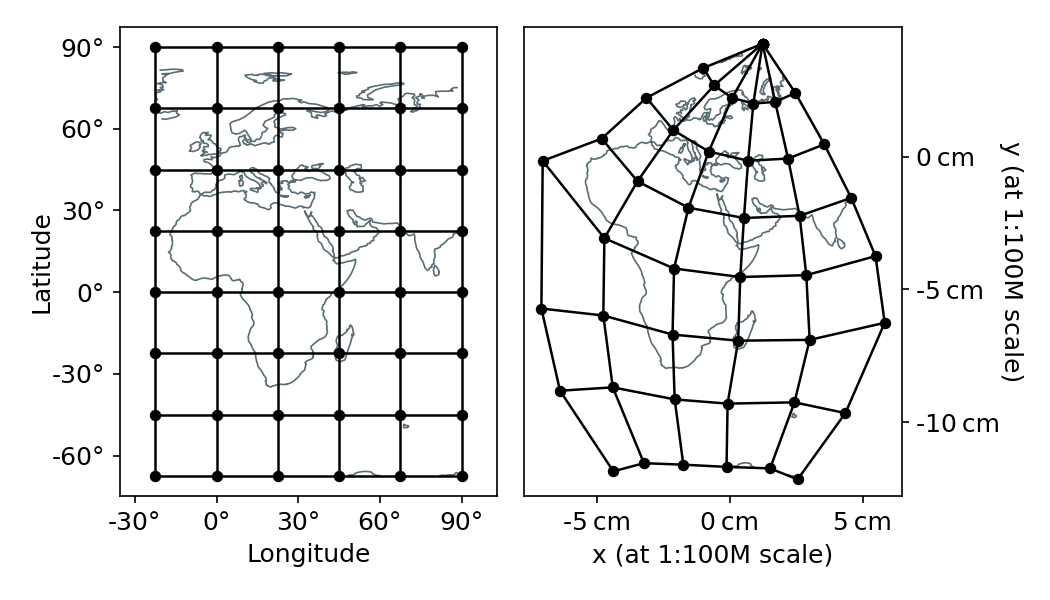
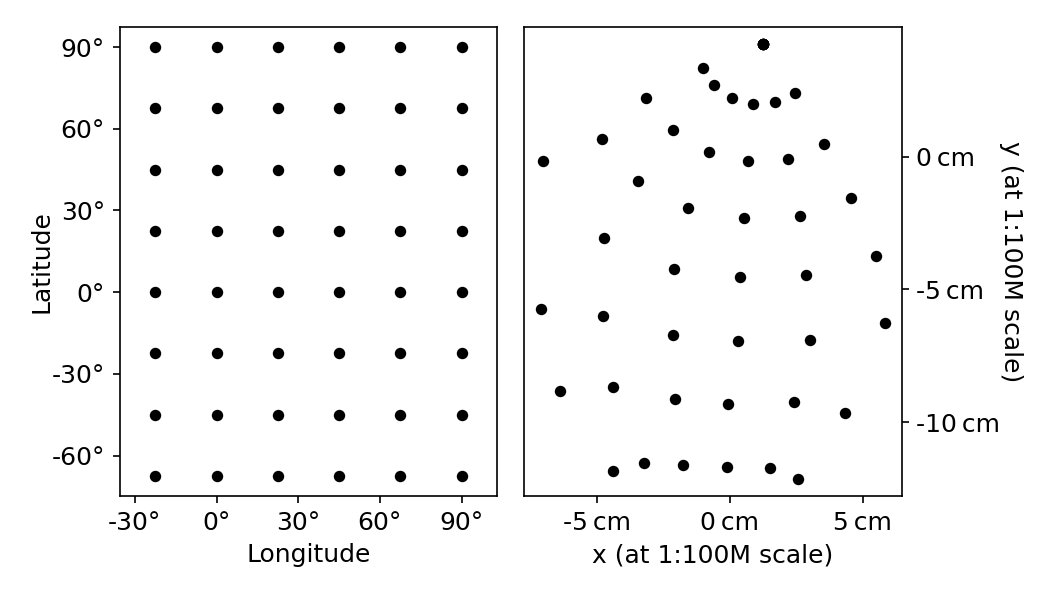
multiple diagrams
I refactord and expanded the diagrams.  these pictures are still quite incomplete, but there's more than one now.

diff --git a/src/draw_diagrams.py b/src/draw_diagrams.py
@@ -20,35 +20,61 @@ from create_map_projection import create_map_projection, Mesh, load_coastline_da
 def draw_diagrams():
 	plt.rcParams.update({'font.size': 12})
 
-	elastic_earth = load_mesh("elastic-earth-I")
-	elastic_earth.nodes /= 1e3  # scale down to a realistic map size and change km to cm
-	rectangular = equirectangular_like(elastic_earth)
+	# first compute the Elastic Earth I projection with lower resolution
+	if load_mesh("elastic-earth-I").nodes.shape[1] > 10:
+		build_mesh("oceans", resolution=4)
+		create_map_projection("continents")
+		plt.close("all")
 
-	fig, (ax_left, ax_right) = plt.subplots(1, 2, num="all sections", figsize=(7, 4))
-	draw_section(ax_left, rectangular, 0, nodes=True, edges=True, border=False, graticule=True, coastlines=True)
-	ax_left.set_xlabel("Longitude")
-	ax_left.set_ylabel("Latitude", labelpad=-1)
-	set_ticks(ax_left, spacing=30, fmt="{x:.0f}°")
-	draw_section(ax_right, elastic_earth, 0, nodes=True, edges=True, border=False, graticule=True, coastlines=True)
-	ax_right.set_xlabel("x (at 1:100M scale)")
-	ax_right.set_ylabel("y (at 1:100M scale)", labelpad=11, rotation=-90)
-	set_ticks(ax_right, spacing=5, fmt="{x:.0f} cm", y_ticks_on_right=True)
-	plt.tight_layout()
+	# then draw the diagrams using that new coarse projection
+	mesh = load_mesh("elastic-earth-I")
+	mesh.nodes /= 1e3  # scale down to a realistic map size and change km to cm
+
+	fig, (ax_left, ax_right) = plt.subplots(1, 2, figsize=(7, 4))
+	plot_projection_domains(
+		ax_left, ax_right, mesh, 0,
+		nodes=True, border=False, shading=False, graticule=False, coastlines=False)
 	plt.savefig("../resources/diagram-1.png", dpi=150)
+
+	fig, (ax_left, ax_right) = plt.subplots(1, 2, figsize=(7, 4))
+	plot_projection_domains(
+		ax_left, ax_right, mesh, 0,
+		nodes=True, border=False, shading=True, graticule=True, coastlines=True)
+	plt.savefig("../resources/diagram-2.png", dpi=150)
+
+	fig, (ax_left, ax_right) = plt.subplots(1, 2, figsize=(7, 4))
+	plot_projection_domains(
+		ax_left, ax_right, mesh, 0,
+		nodes=True, border=True, shading=True, graticule=True, coastlines=True)
+	plt.savefig("../resources/diagram-4.png", dpi=150)
 
 	plt.show()
 
 
-def draw_section(ax: Axes, mesh: Mesh, h: int,
-                 nodes: bool, edges: bool, border: bool,
+def plot_projection_domains(ax_left: Axes, ax_right: Axes,
+                            elastic_earth_mesh: Mesh, section_index: int,
+                            nodes: bool, border: bool, shading: bool,
+                            graticule: bool, coastlines: bool) -> None:
+	equirectangular_mesh = equirectangular_like(elastic_earth_mesh)
+	draw_section(ax_left, equirectangular_mesh, section_index, nodes, border, shading, graticule, coastlines)
+	ax_left.set_xlabel("Longitude")
+	ax_left.set_ylabel("Latitude", labelpad=-1)
+	set_ticks(ax_left, spacing=30, fmt="{x:.0f}°")
+	draw_section(ax_right, elastic_earth_mesh, section_index, nodes, border, shading, graticule, coastlines)
+	ax_right.set_xlabel("x (at 1:100M scale)")
+	ax_right.set_ylabel("y (at 1:100M scale)", labelpad=11, rotation=-90)
+	set_ticks(ax_right, spacing=5, fmt="{x:.0f} cm", y_ticks_on_right=True)
+	plt.tight_layout()
+
+
+
+def draw_section(ax: Axes, mesh: Mesh, section_index: int,
+                 nodes: bool, border: bool, shading: bool,
                  graticule: bool, coastlines: bool) -> None:
 	if nodes:
-		ax.scatter(mesh.nodes[h, :, :, 0], mesh.nodes[h, :, :, 1], color="k", s=20, zorder=20)
-	if edges:
-		ax.plot(mesh.nodes[h, :, :, 0], mesh.nodes[h, :, :, 1], color="k", linewidth=1.2, zorder=20)
-		ax.plot(mesh.nodes[h, :, :, 0].T, mesh.nodes[h, :, :, 1].T, color="k", linewidth=1.2, zorder=20)
+		ax.scatter(mesh.nodes[section_index, :, :, 0], mesh.nodes[section_index, :, :, 1], color="k", s=20, zorder=20)
 	if coastlines:
-		project = RegularGridInterpolator([mesh.ф, mesh.λ], mesh.nodes[h, :, :, :],
+		project = RegularGridInterpolator([mesh.ф, mesh.λ], mesh.nodes[section_index, :, :, :],
 		                                  bounds_error=False, fill_value=nan)
 		coastlines = load_coastline_data(reduction=1)
 		for line in coastlines:
@@ -92,10 +118,4 @@ def equirectangular_like(mesh: Mesh) -> Mesh:
 
 
 if __name__ == "__main__":
-	# first compute the Elastic Earth I projection with lower resolution
-	if load_mesh("elastic-earth-I").nodes.shape[1] > 10:
-		build_mesh("oceans", resolution=4)
-		create_map_projection("continents")
-		plt.close("all")
-	# then draw the diagrams using that new coarse projection
 	draw_diagrams()
